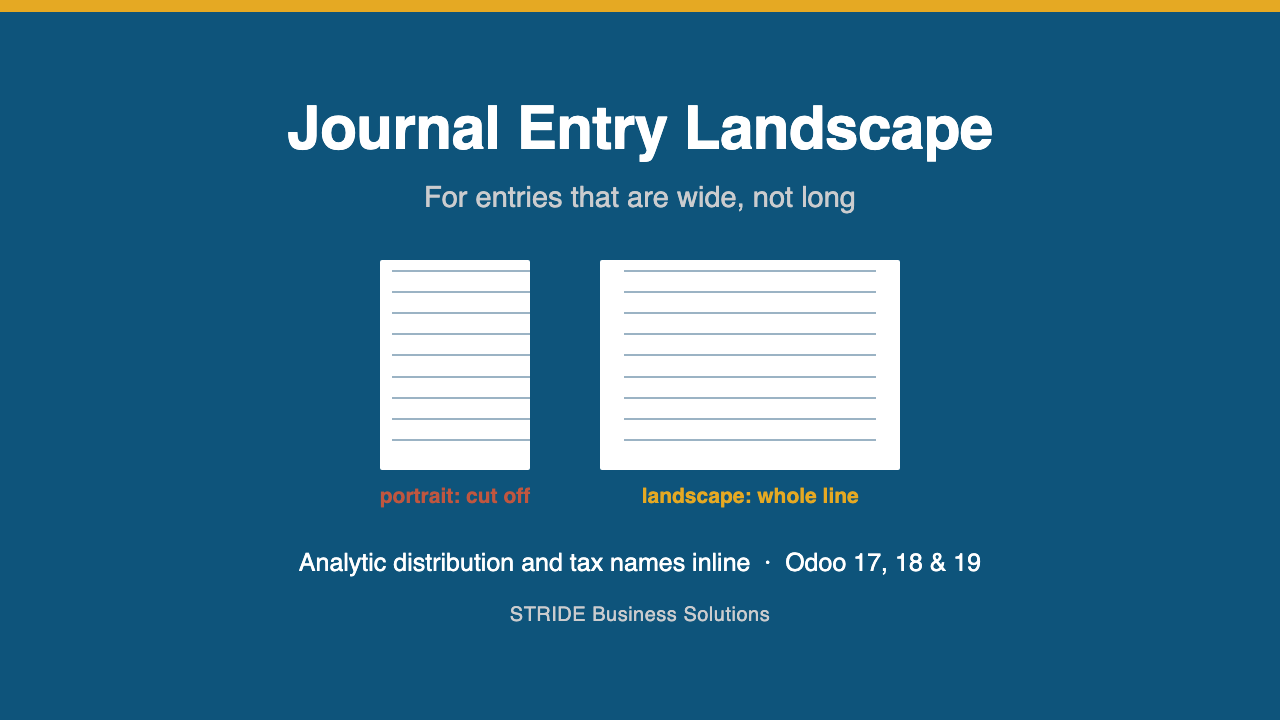
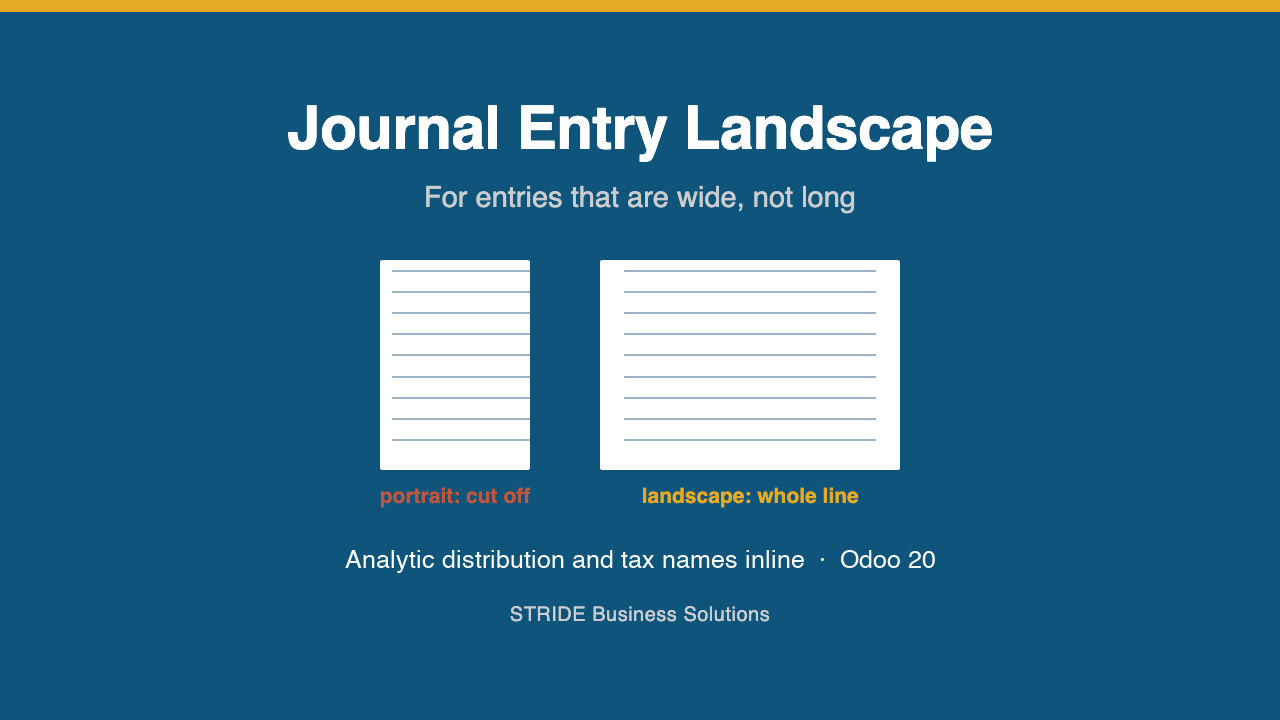
Listing for Odoo 20.0: truthful claims, real screenshots, ASCII-safe HTML
- Remove the false "enables the chatter" claim (chatter is core) and the
  "email distribution" claim; describe what the report actually prints.
- Replace the raw UTF-8 apostrophe with an HTML entity (mojibake risk).
- New English and Arabic screenshots rendered by Odoo 20.0 + wkhtmltopdf.
- Thumbnail says Odoo 20 instead of "Odoo 17, 18 & 19".

Changed region(s): [[0.2188, 0.7639, 0.7812, 0.7944]]

diff --git a/sbs_journal_entry_report/static/description/index.html b/sbs_journal_entry_report/static/description/index.html
@@ -1,7 +1,7 @@
 <section class="oe_container">
     <div class="oe_row oe_spaced">
-        <h2 class="oe_slogan" style="color:#875A7B;">Professional Journal Entry PDF Reports</h2>
-        <h3 class="oe_slogan">Generate clean and landscape-formatted PDF reports for journal entries</h3>
+        <h2 class="oe_slogan" style="color:#875A7B;">Journal Entry Landscape</h2>
+        <h3 class="oe_slogan">A landscape PDF for journal entries that are wide rather than long &#8211; for Odoo 20.0</h3>
     </div>
 </section>
 
@@ -23,70 +23,71 @@
     </div>
 </section>
 
-
 <section class="oe_container oe_dark">
     <div class="oe_row oe_spaced">
-        <h2 class="oe_slogan" style="color:#875A7B;">Built for Accountants and Finance Teams</h2>
-        <h3 class="oe_slogan">Make your reporting workflow more organized and easier to read</h3>
-        <div class="oe_span6 text-justify oe_mt32">
-            <span class="fa fa-print fa-2x pull-left"/>
-            <p class="oe_mb32" style="margin-left:48px;">
-                Adds a new PDF print action to journal entries using a clear landscape format.
-            </p>
-            <span class="fa fa-list-alt fa-2x pull-left"/>
-            <p class="oe_mb32" style="margin-left:48px;">
-                Displays analytic distribution, partners, and total balances in a structured layout.
-            </p>
-            <span class="fa fa-commenting fa-2x pull-left"/>
-            <p style="margin-left:48px;">
-                Enables the chatter on journal entries to track changes and add internal notes.
-            </p>
+        <h2 class="oe_slogan" style="color:#875A7B;">What it adds</h2>
+        <div class="oe_span12 oe_mt32">
+            <ul>
+                <li>A <b>Journal Entry Landscape</b> report in the <b>Print</b> menu of journal entries, vendor bills and invoices &#8211; from the form, or for several entries selected in the list (one page per entry).</li>
+                <li>Account, label, partner, <b>analytic distribution</b> and <b>tax names</b> on the same line as the debit and credit. The partner, analytic, tax and foreign-currency columns appear only when the entry uses them, so a simple entry stays narrow.</li>
+                <li>Lines spread over several analytic plans print every account, e.g. <i>Administration / Olaya Tower Fit-out: 60%</i>.</li>
+                <li>Debit and credit totals are the sums of their columns, formatted in the company currency. Draft and cancelled entries say so in the title.</li>
+                <li>Internal note, &#8220;Printed by&#8221; and a signature line for the reviewer.</li>
+                <li>A note in the chatter when an entry is cancelled.</li>
+            </ul>
         </div>
     </div>
 </section>
-
-<section class="oe_container">
-    <div class="oe_row oe_spaced">
-        <h2 class="oe_slogan" style="color:#875A7B;">Ready to Use, No Configuration Required</h2>
-        <h3 class="oe_slogan">Just install and start printing enhanced journal entry reports</h3>
-        <div class="oe_span6">
-            <p class="oe_mt32 text-justify">
-                The report integrates seamlessly with Odoo’s native accounting workflow and requires no additional setup. Activate, print, and share reports directly from the journal entry screen.
-            </p>
-        </div>
-    </div>
-</section>
-
-<section class="oe_container oe_dark">
-    <div class="oe_row oe_spaced">
-        <h2 class="oe_slogan" style="color:#875A7B;">Optimized Layout and Landscape Orientation</h2>
-        <h3 class="oe_slogan">Better spacing, clearer alignment, and improved readability</h3>
-        <p class="oe_mt32">
-            The layout is designed to be printer-friendly and supports both PDF download and email distribution. The landscape format accommodates more columns without cluttering.
-        </p>
-    </div>
-</section>
-
 
 <section class="oe_container">
     <div class="oe_row oe_spaced">
         <div class="oe_span12 text-center">
             <h2 class="oe_slogan">The report, on a real entry</h2>
-            <p class="oe_mt16">Analytic distribution and tax names on the same line as the
-               amounts. Both columns appear only when the entry actually uses them, so a
-               simple entry stays narrow.</p>
-            <img src="screenshot-report.png" style="max-width:100%;border:1px solid #ddd;margin-top:12px"/>
+            <p class="oe_mt16">A rent accrual split across two analytic plans, printed from Odoo 20.0.</p>
+            <img src="screenshot-report.png" alt="Journal Entry Landscape report in English" style="max-width:100%;border:1px solid #ddd;margin-top:12px"/>
+        </div>
+    </div>
+</section>
+
+<section class="oe_container oe_dark">
+    <div class="oe_row oe_spaced">
+        <div class="oe_span12 text-center">
+            <h2 class="oe_slogan">Arabic, right-to-left</h2>
+            <p class="oe_mt16">Printed from an Arabic database, the page runs right-to-left while amounts,
+               entry numbers and Latin text keep their left-to-right order. Arabic labels ship with the module.</p>
+            <img src="screenshot-report-ar.png" alt="Journal Entry Landscape report in Arabic" style="max-width:100%;border:1px solid #ddd;margin-top:12px"/>
         </div>
     </div>
 </section>
 
 <section class="oe_container">
     <div class="oe_row oe_spaced">
-        <h2 class="oe_slogan" style="color:#875A7B;">Developed and Supported by STRIDE</h2>
-        <h3 class="oe_slogan">Reliable module by STRIDE Business Solutions</h3>
-        <p class="oe_mt32 text-justify">
-            This module is developed by STRIDE to enhance accounting capabilities in Odoo for finance professionals. Feel free to reach out for support, customizations, or enterprise deployments.
-        </p>
+        <h2 class="oe_slogan" style="color:#875A7B;">No configuration</h2>
+        <div class="oe_span12 oe_mt32">
+            <p>
+                Install it and the report is in the Print menu. It depends on Accounting (<code>account</code>) only
+                and works on Community and Enterprise, on Odoo.sh and on-premise. Third-party apps cannot be
+                installed on Odoo Online (SaaS).
+            </p>
+            <p>
+                The PDF uses its own landscape A4 paper format; the company&#8217;s default paper format is not changed.
+            </p>
+        </div>
+    </div>
+</section>
+
+<section class="oe_container oe_dark">
+    <div class="oe_row oe_spaced">
+        <h2 class="oe_slogan" style="color:#875A7B;">New in the Odoo 20.0 version</h2>
+        <div class="oe_span12 oe_mt32">
+            <ul>
+                <li>Totals were the entry&#8217;s signed total, which printed negative on vendor bills and refunds; they are now the column sums.</li>
+                <li>Debit, credit and amount-in-currency are formatted with their currency instead of printed as raw numbers.</li>
+                <li>Lines spread over several analytic plans no longer stop the report with an error; invoice section and note lines are skipped.</li>
+                <li>Arabic translation and a right-to-left layout for Arabic databases.</li>
+                <li>Printing many entries at once reads their data in a fixed number of queries.</li>
+            </ul>
+        </div>
     </div>
 </section>
 
